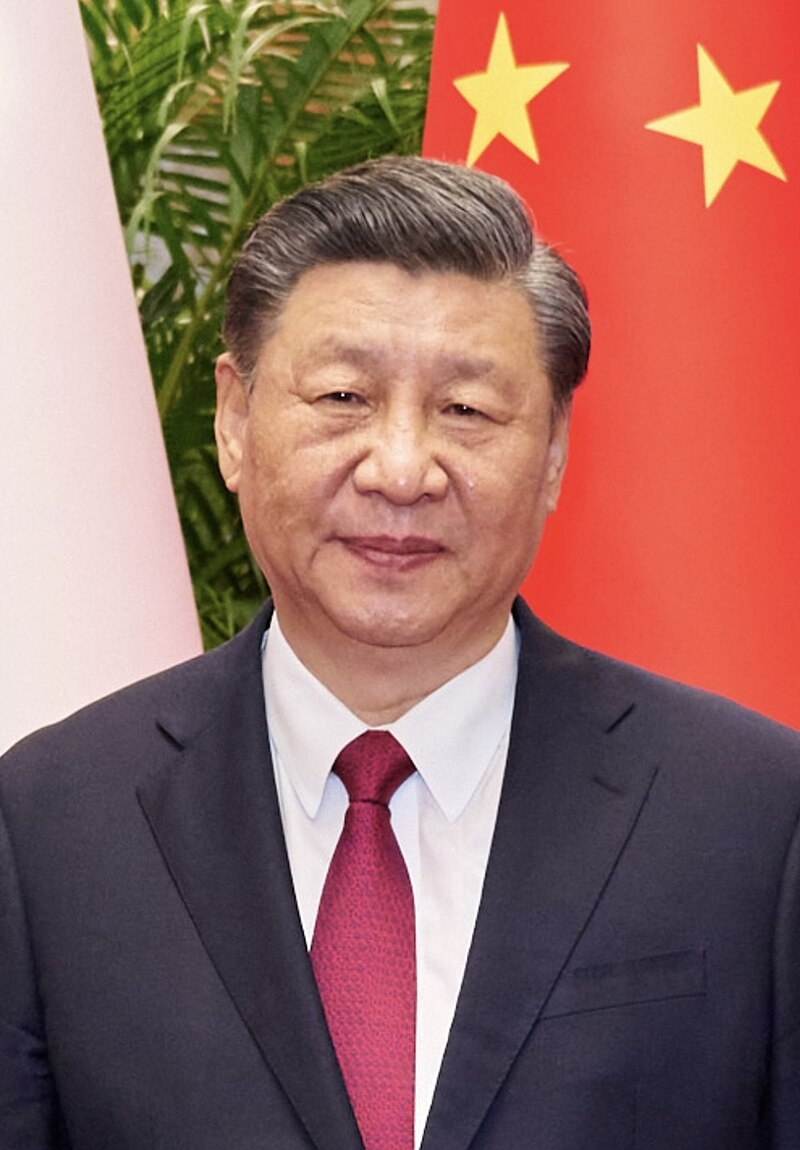
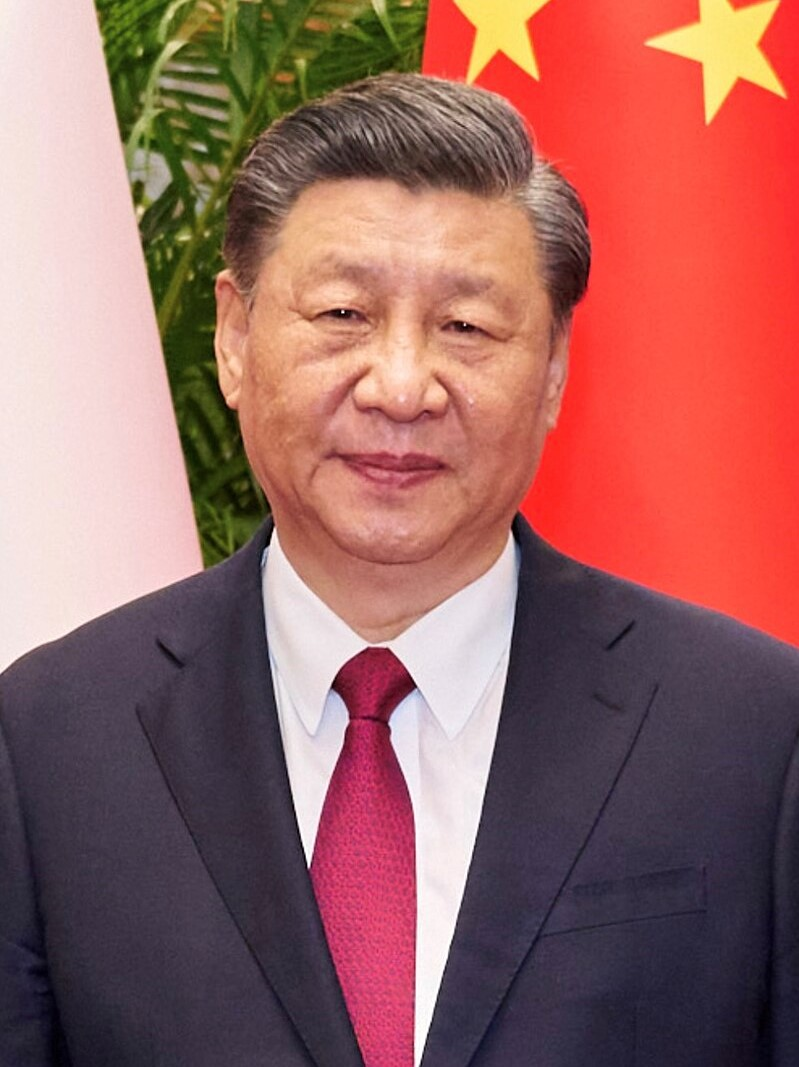
válddghsges

diff --git a/baratai.html b/baratai.html
@@ -5,7 +5,7 @@
         <meta name="viewport" content="width=device-width, initial-scale=1, shrink-to-fit=no" />
         <meta name="description" content="" />
         <meta name="author" content="" />
-        <title>Modern Business - Start Bootstrap Template</title>
+        <title>Orbán Viktor Barátai</title>
         <!-- Favicon-->
         <link rel="icon" type="image/x-icon" href="assets/favicon.ico" />
         <!-- Custom Google font-->
@@ -71,7 +71,18 @@
                                 </div>
                             </div>
 
-
+                            <!-- xi csingcsángcsung -->
+                            <div class="card overflow-hidden shadow rounded-4 border-0 mb-5">
+                                <div class="card-body p-0">
+                                    <div class="d-flex align-items-center">
+                                        <div class="p-5">
+                                            <h2 class="fw-bolder">Xi Jinping</h2>
+                                            <p>Hszi Csin-ping (Senhszi tartomány, Fuping vagy Peking, 1953. június 15. ) kínai politikus, a Kínai Népköztársaság (KNK) elnöke. 2012. november 15. óta a Kínai Kommunista Párt (KKP) főtitkára, a Központi Bizottság (KB) Politikai Bizottsága Állandó Bizottságának, az ország de facto legfelső hatalmi grémiumának az első embere, valamint a KKP Központi Katonai Bizottságának az elnöke. A KNK ötödik vezetői generációjának a vezetője. 2010 óta számított az ország kijelölt következő vezetőjének.</p>
+                                        </div>
+                                        <img class="img-fluid" src="assets/xijinping.jpg" alt="Xi Jinping" width="300em"/>
+                                    </div>
+                                </div>
+                            </div> 
 
                             <!-- erdogan -->
                             <div class="card overflow-hidden shadow rounded-4 border-0 mb-5">
@@ -99,7 +110,9 @@
                                 </div>
                             </div>
 
-                            <!-- Project Card -->
+ 
+
+                          <!-- Project Card -->
                             <div class="card overflow-hidden shadow rounded-4 border-0">
                                 <div class="card-body p-0">
                                     <div class="d-flex align-items-center">
